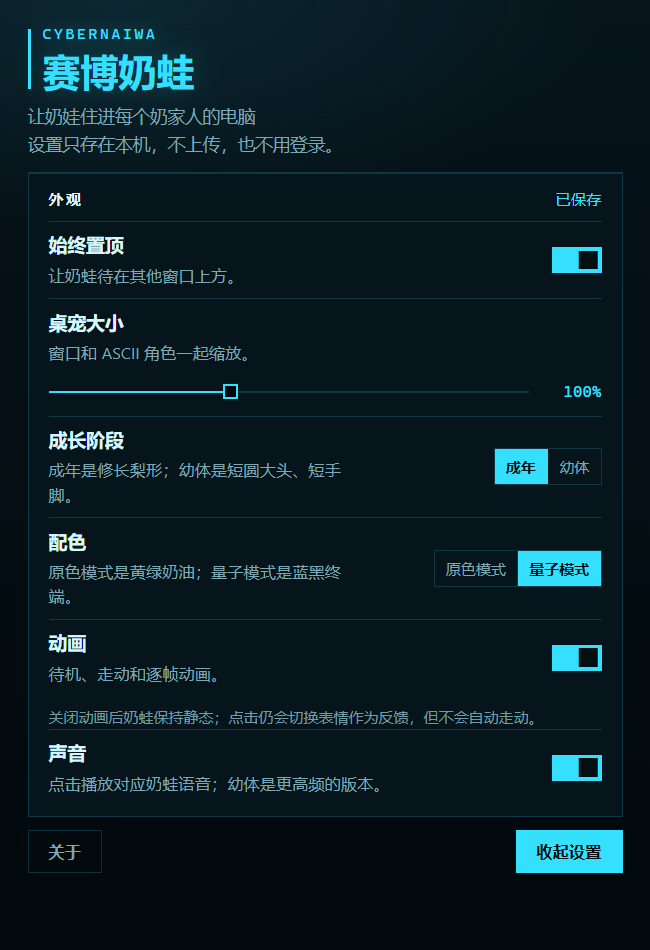
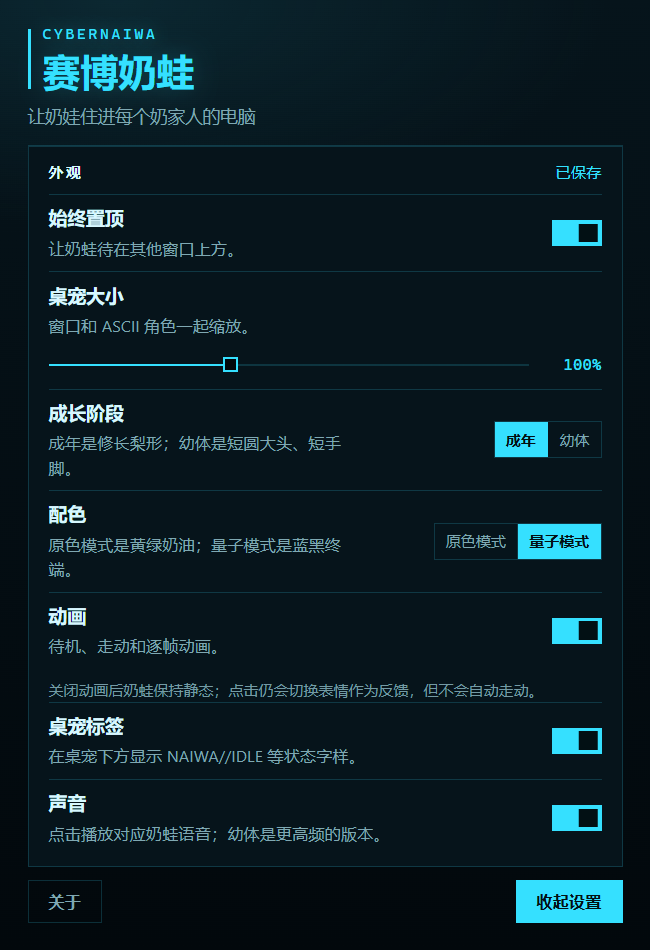
add hud visibility toggle and trim settings intro

diff --git a/src/i18n/strings.ts b/src/i18n/strings.ts
@@ -14,7 +14,6 @@ export interface UiStrings {
     windowTitle: string;
     title: string;
     intro: string;
-    introSecond: string;
     languageLabel: string;
     appearance: string;
     alwaysOnTop: string;
@@ -32,6 +31,8 @@ export interface UiStrings {
     animation: string;
     animationHint: string;
     animationNote: string;
+    hud: string;
+    hudHint: string;
     sound: string;
     soundHint: string;
     about: string;
@@ -67,7 +68,6 @@ const ZH: UiStrings = {
     windowTitle: "赛博奶蛙",
     title: "赛博奶蛙",
     intro: "让奶娃住进每个奶家人的电脑",
-    introSecond: "设置只存在本机，不上传，也不用登录。",
     languageLabel: "语言",
     appearance: "外观",
     alwaysOnTop: "始终置顶",
@@ -86,6 +86,8 @@ const ZH: UiStrings = {
     animationHint: "待机、走动和逐帧动画。",
     animationNote:
       "关闭动画后奶蛙保持静态；点击仍会切换表情作为反馈，但不会自动走动。",
+    hud: "桌宠标签",
+    hudHint: "在桌宠下方显示 NAIWA//IDLE 等状态字样。",
     sound: "声音",
     soundHint: "点击播放对应奶蛙语音；幼体是更高频的版本。",
     about: "关于",
@@ -137,7 +139,6 @@ const EN: UiStrings = {
     windowTitle: "Cyber Naiwa",
     title: "Cyber Naiwa",
     intro: "Let Naiwa move into every Naiwa-family computer.",
-    introSecond: "Settings stay on this machine — no uploads, no sign-in.",
     languageLabel: "Language",
     appearance: "Appearance",
     alwaysOnTop: "Always on top",
@@ -157,6 +158,8 @@ const EN: UiStrings = {
     animationHint: "Idle, walking and frame-by-frame motion.",
     animationNote:
       "With animation off, Naiwa holds still. Clicks still change the expression, but there's no automatic walking.",
+    hud: "Status label",
+    hudHint: "Show the NAIWA//IDLE status line below the pet.",
     sound: "Sound",
     soundHint: "Play the matching Naiwa voice line on click; the baby uses a higher-pitched version.",
     about: "About",

diff --git a/src/components/Settings.tsx b/src/components/Settings.tsx
@@ -110,11 +110,7 @@ export default function Settings() {
 
         </div>
 
-        <p className="settings-intro">
-          {strings.settings.intro}
-          <br />
-          {strings.settings.introSecond}
-        </p>
+        <p className="settings-intro">{strings.settings.intro}</p>
       </header>
 
       {error ? (
@@ -263,6 +259,24 @@ export default function Settings() {
         </div>
 
         <p className="settings-note">{strings.settings.animationNote}</p>
+
+        <div className="settings-row">
+          <div className="settings-row__copy">
+            <span className="settings-label">{strings.settings.hud}</span>
+            <span className="settings-hint">{strings.settings.hudHint}</span>
+          </div>
+          <button
+            type="button"
+            role="switch"
+            aria-label={strings.settings.hud}
+            aria-checked={settings.hudEnabled}
+            className={`toggle${settings.hudEnabled ? " is-on" : ""}`}
+            onClick={() => update({ hudEnabled: !settings.hudEnabled })}
+            disabled={!loaded}
+          >
+            <span className="toggle__thumb" />
+          </button>
+        </div>
 
         <div className="settings-row">
           <div className="settings-row__copy">

diff --git a/src/components/Pet.tsx b/src/components/Pet.tsx
@@ -214,10 +214,12 @@ export default function Pet() {
         age={settings.age}
         palette={settings.palette}
       />
-      <div className="pet-hud" aria-hidden="true">
-        <span className={`pet-hud-dot${ready ? " is-online" : ""}`} />
-        NAIWA//{PET_STATE_LABELS[state]}
-      </div>
+      {settings.hudEnabled ? (
+        <div className="pet-hud" aria-hidden="true">
+          <span className={`pet-hud-dot${ready ? " is-online" : ""}`} />
+          NAIWA//{PET_STATE_LABELS[state]}
+        </div>
+      ) : null}
     </main>
   );
 }

diff --git a/DEVELOPMENT.md b/DEVELOPMENT.md
@@ -120,7 +120,7 @@ CyberNaiwa/
 ## 设置持久化
 
 - 使用官方 `tauri-plugin-store`，文件 `settings.json`，`autoSave: false`，显式 `save()`。
-- 键 `settings`：`{ alwaysOnTop, scale, animationsEnabled, soundEnabled, language, age, palette }`。
+- 键 `settings`：`{ alwaysOnTop, scale, animationsEnabled, soundEnabled, hudEnabled, language, age, palette }`。`hudEnabled` 控制桌宠下方 `NAIWA//IDLE` 是否显示，旧设置缺省为 `true`。
 - 键 `windowPosition`：`{ x, y }`（物理像素）。
 - 读取时做类型校验和范围夹取：`scale` 限制在 0.7–1.5，`language` 只接受 `zh/en`，`age` 只接受 `adult/baby`，`palette` 只接受 `cyber/original`，非法值回退默认。
 - App 界面固定中文（设置页不再提供语言切换）；README 保留 `README.en.md`。托盘语言固定调用 `zh`，设置窗口标题为中文。
@@ -242,4 +242,5 @@ cargo check --manifest-path src-tauri/Cargo.toml
 - 2026-11-16 raise every UI font in the settings console, pet HUD/bubble and NSIS installer art (minimum 12px in the console) to keep all text readable.
 - 2026-11-16 theme the NSIS installer with the baby ASCII sidebar/header BMPs, installer icon, dark MUI colours, Chinese-only pages and a custom welcome/finish copy.
 - 2026-11-16 replace the adult single-frame laugh with 25 ASCII frames sampled from Codex Voice Input's MIT 25-frame Naiwa laugh; use one fixed crop for all frames, 90ms per frame, and continue the same frame index across click→happy (380ms + 1870ms = 2.25s) so the hands-on-head beat plays once.
+- 2026-11-16 remove the settings intro's local-only line and add a persisted `hudEnabled` toggle for the pet's `NAIWA//IDLE` label; the settings panel still fits 520×760 without scrolling.
 - 2026-11-16 bump to 0.2.1 and replace `docs/settings.png` with the 赛博奶蛙 settings screenshot (原色模式/量子模式, no sleep copy, version 0.2.1).

diff --git a/design-qa.md b/design-qa.md
@@ -136,6 +136,14 @@
 - 嘴腔处理：先把所有 `_` 还原成手脚，再在上半脸找最大 `@/_` 连通块恢复为嘴腔，补 3 个 `=` 牙齿；解决脚底被误判成红色嘴腔的问题。
 - 成年 happy/click 改为 25 帧、90ms/帧；click 380ms + happy 1870ms = 2.25s，click→happy 不重置帧索引，避免“抱头两次”。幼体仍使用 2 帧和 320/180ms 的原节奏。
 - 验证：JSON 中 happy/click 各 25 个唯一帧；React 页面 2.8 秒采样到 26 个唯一帧，HUD `CLICK → HAPPY → IDLE`；`pnpm build` 通过。
+- 修复 click→happy 重置导致的“抱头两次”：成年 click 与 happy 共用同一组 25 帧，click→happy 不重置帧索引；380ms + 1870ms = 2.25s，帧序列实测 0→25 连续递增。
+
+## 2026-11-16 — Phase 18：设置页文案与桌宠标签开关
+
+- 删除设置页“设置只存在本机，不上传，也不用登录。”这一行，只保留标签语。
+- 新增 `hudEnabled` 设置（默认 `true`），控制桌宠下方 `NAIWA//IDLE` 的显示；设置页增加「桌宠标签」开关，旧设置缺省为显示。
+- 设置页在 520×760 下仍为 `clientHeight 760 / scrollHeight 760`，没有滚动；冷启动后开关 true→false→true 双向生效。
+- `pnpm build` 通过。
 
 ## 待人工确认
 

diff --git a/README.md b/README.md
@@ -58,7 +58,7 @@
 
 <img src="docs/settings.png" alt="赛博奶蛙设置页" width="420" />
 
-透明置顶、桌宠大小、成年/幼体、原色模式/量子模式、动画开关和声音开关都在同一个面板里；「关于」按需打开，不占主面板空间。控制台使用量子模式的蓝黑终端配色。
+透明置顶、桌宠大小、成年/幼体、原色模式/量子模式、动画开关、桌宠标签开关和声音开关都在同一个面板里；「关于」按需打开，不占主面板空间。控制台使用量子模式的蓝黑终端配色。
 
 ## 技术栈
 

diff --git a/README.en.md b/README.en.md
@@ -58,7 +58,7 @@ Baby preview:
 
 <img src="docs/settings.png" alt="CyberNaiwa settings" width="420" />
 
-Always-on-top, size, adult/baby, Original/Quantum mode, animation, and sound live in one panel; About opens on demand and takes no main-panel space. The console uses the Quantum blue-black terminal palette.
+Always-on-top, size, adult/baby, Original/Quantum mode, animation, the status label, and sound live in one panel; About opens on demand and takes no main-panel space. The console uses the Quantum blue-black terminal palette.
 
 ## Stack
 
